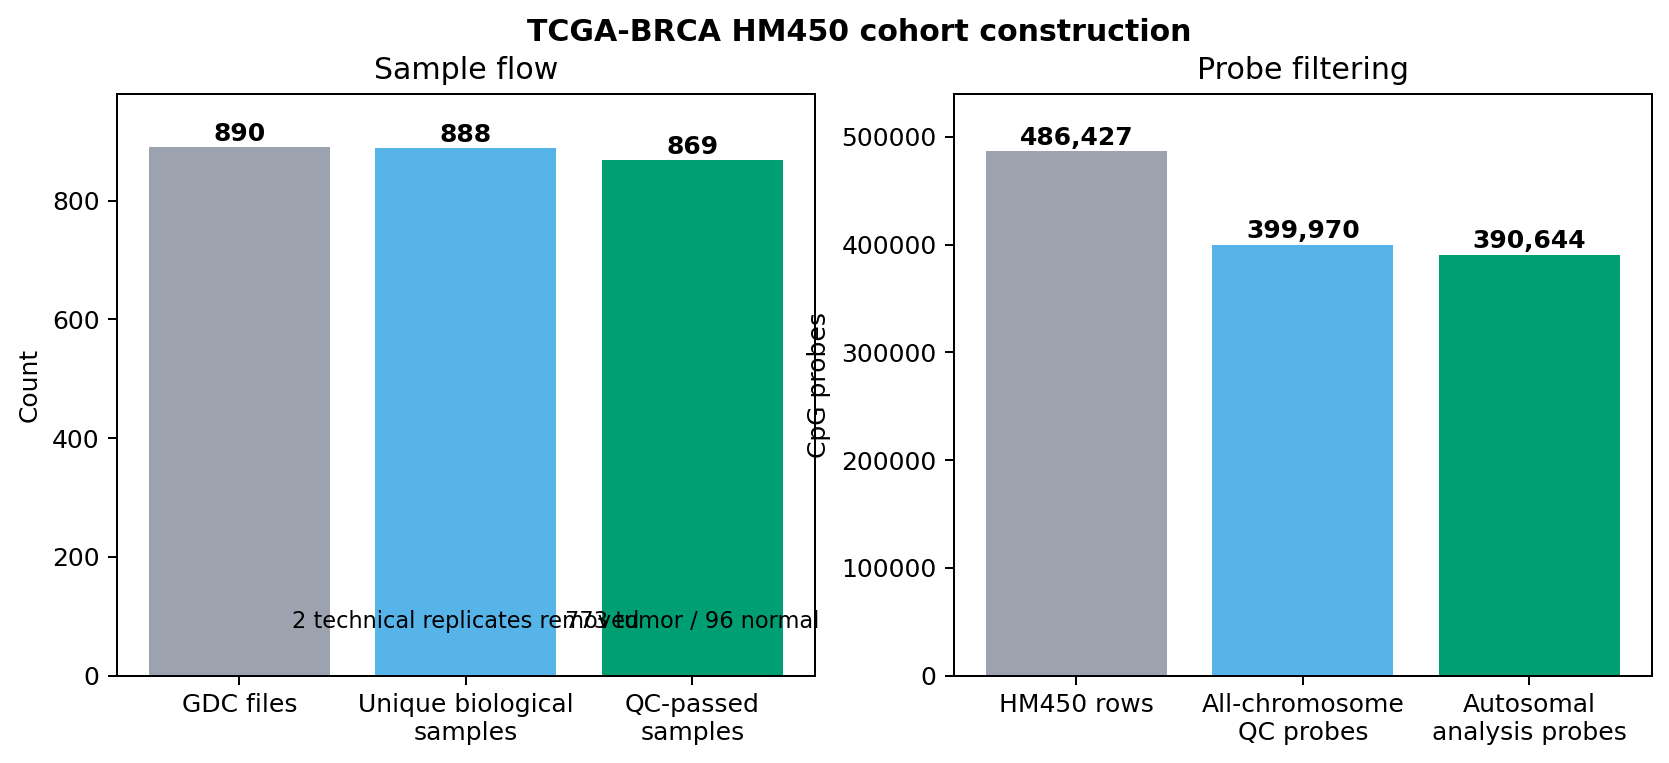
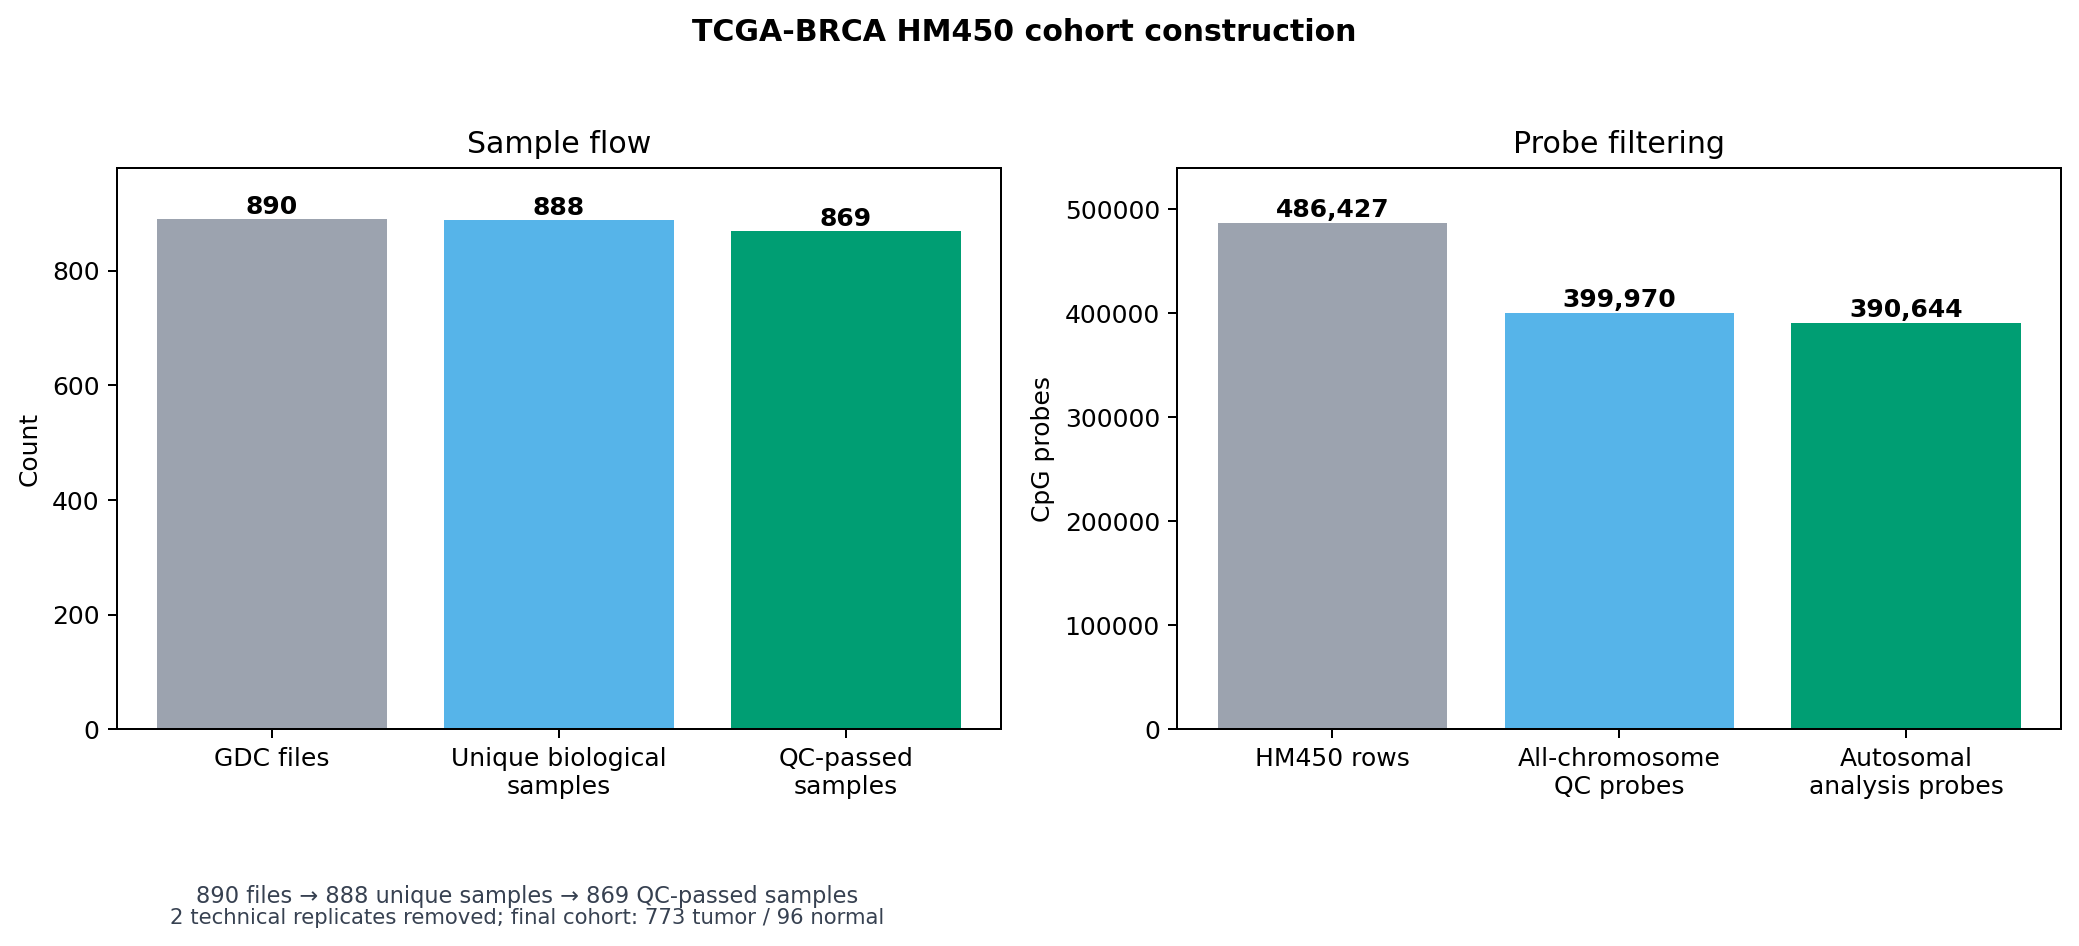
Fix portfolio figure label overlaps

Changed region(s): [[0.0, 0.0, 0.997, 0.9948], [0.5297, 0.8742, 0.5608, 0.9043]]

diff --git a/scripts/08_evaluation/make_portfolio_figures.py b/scripts/08_evaluation/make_portfolio_figures.py
@@ -25,14 +25,12 @@ def save(fig, name):
 # Cohort and probe flow from saved QC summaries.
 prep = json.loads((ROOT / "results/qc/sample_preparation_summary.json").read_text())
 qc = json.loads((ROOT / "results/qc/qc_filter_summary.json").read_text())
-fig, axes = plt.subplots(1, 2, figsize=(11, 4.2))
+fig, axes = plt.subplots(1, 2, figsize=(12, 5.2))
 sample_labels = ["GDC files", "Unique biological\nsamples", "QC-passed\nsamples"]
 sample_values = [prep["input_files"], prep["unique_samples"], qc["retained_samples"]]
 axes[0].bar(sample_labels, sample_values, color=["#9CA3AF", "#56B4E9", COLORS["accent"]])
 for i, value in enumerate(sample_values):
     axes[0].text(i, value + 10, f"{value:,}", ha="center", fontweight="bold")
-axes[0].text(1, 80, "2 technical replicates removed", ha="center", fontsize=9)
-axes[0].text(2, 80, "773 tumor / 96 normal", ha="center", fontsize=9)
 axes[0].set_ylim(0, 980); axes[0].set_ylabel("Count"); axes[0].set_title("Sample flow")
 probe_labels = ["HM450 rows", "All-chromosome\nQC probes", "Autosomal\nanalysis probes"]
 probe_values = [qc["input_probes"], qc["retained_probes_all_chromosomes"], qc["retained_probes_autosomal"]]
@@ -40,7 +38,12 @@ axes[1].bar(probe_labels, probe_values, color=["#9CA3AF", "#56B4E9", COLORS["acc
 for i, value in enumerate(probe_values):
     axes[1].text(i, value + 6000, f"{value:,}", ha="center", fontweight="bold")
 axes[1].set_ylim(0, 540000); axes[1].set_ylabel("CpG probes"); axes[1].set_title("Probe filtering")
-fig.suptitle("TCGA-BRCA HM450 cohort construction", fontweight="bold")
+fig.suptitle("TCGA-BRCA HM450 cohort construction", fontweight="bold", y=0.98)
+fig.text(0.27, 0.035, "890 files → 888 unique samples → 869 QC-passed samples",
+         ha="center", fontsize=9, color="#374151")
+fig.text(0.27, 0.012, "2 technical replicates removed; final cohort: 773 tumor / 96 normal",
+         ha="center", fontsize=8.5, color="#374151")
+fig.subplots_adjust(left=0.08, right=0.98, top=0.82, bottom=0.22, wspace=0.20)
 save(fig, "cohort_qc_flow.png")
 
 
@@ -113,26 +116,33 @@ save(fig, "model_metrics_patient_bootstrap_ci.png")
 
 
 # Architecture schematic derived from the implemented tensor flow.
-fig, ax = plt.subplots(figsize=(13, 3.4)); ax.axis("off")
+fig, ax = plt.subplots(figsize=(15.5, 4.6)); ax.axis("off")
 boxes = [
     ("β values", "[B, 1000]"),
-    ("Genomic order", "chr + hg19 position"),
-    ("Fixed CpG patches", "[B, 100, 10]"),
-    ("Linear + LN + GELU", "[B, 100, 64]"),
-    ("+ chromosome embedding\n+ learned sequence position", "+ [CLS]"),
-    ("2-layer Transformer", "4 heads; FFN=128"),
+    ("Genomic\nordering", "chr + hg19 position"),
+    ("Fixed CpG\npatches", "[B, 100, 10]"),
+    ("Linear projection\n+ LN + GELU", "[B, 100, 64]"),
+    ("Chromosome embedding\n+ sequence position", "+ [CLS] token"),
+    ("2-layer\nTransformer", "4 heads; FFN = 128"),
     ("MLP classifier", "[B] tumor logit"),
 ]
-xs = np.linspace(0.02, 0.86, len(boxes))
+box_width = 0.122
+xs = np.linspace(0.025, 0.855, len(boxes))
 for i, ((title, subtitle), x0) in enumerate(zip(boxes, xs)):
-    ax.add_patch(plt.Rectangle((x0, 0.34), 0.12, 0.34, facecolor="#E8F1FA", edgecolor="#2563EB", linewidth=1.2))
-    ax.text(x0 + 0.06, 0.55, title, ha="center", va="center", fontsize=8, fontweight="bold", wrap=True)
-    ax.text(x0 + 0.06, 0.40, subtitle, ha="center", va="center", fontsize=7, color="#374151", wrap=True)
+    ax.add_patch(plt.Rectangle((x0, 0.34), box_width, 0.36, facecolor="#E8F1FA", edgecolor="#2563EB", linewidth=1.2))
+    ax.text(x0 + box_width / 2, 0.56, title, ha="center", va="center",
+            fontsize=8.2, fontweight="bold", linespacing=1.15)
+    ax.text(x0 + box_width / 2, 0.405, subtitle, ha="center", va="center",
+            fontsize=7.1, color="#374151")
     if i < len(boxes) - 1:
-        ax.annotate("", xy=(xs[i + 1], 0.51), xytext=(x0 + 0.12, 0.51), arrowprops=dict(arrowstyle="->", color="#4B5563"))
-ax.text(0.5, 0.92, "Implemented CpG-patch Transformer (78,017 trainable parameters)", ha="center", fontsize=13, fontweight="bold")
-ax.text(0.5, 0.12, "Baseline limitation: learned sequence positions are not genomic-distance encoding; fixed patches may cross chromosome boundaries.",
-        ha="center", fontsize=9, color="#991B1B")
+        ax.annotate("", xy=(xs[i + 1] - 0.004, 0.52), xytext=(x0 + box_width + 0.004, 0.52),
+                    arrowprops=dict(arrowstyle="->", color="#4B5563", linewidth=1.1))
+ax.text(0.5, 0.92, "Implemented CpG-patch Transformer (78,017 trainable parameters)",
+        ha="center", fontsize=13, fontweight="bold")
+ax.text(0.5, 0.14, "Baseline limitations", ha="center", fontsize=9.2,
+        color="#991B1B", fontweight="bold")
+ax.text(0.5, 0.085, "Sequence positions do not encode genomic distance  •  Fixed patches may cross chromosome boundaries",
+        ha="center", fontsize=8.7, color="#991B1B")
 save(fig, "transformer_architecture.png")
 
 print("Portfolio figures written to", OUT)
